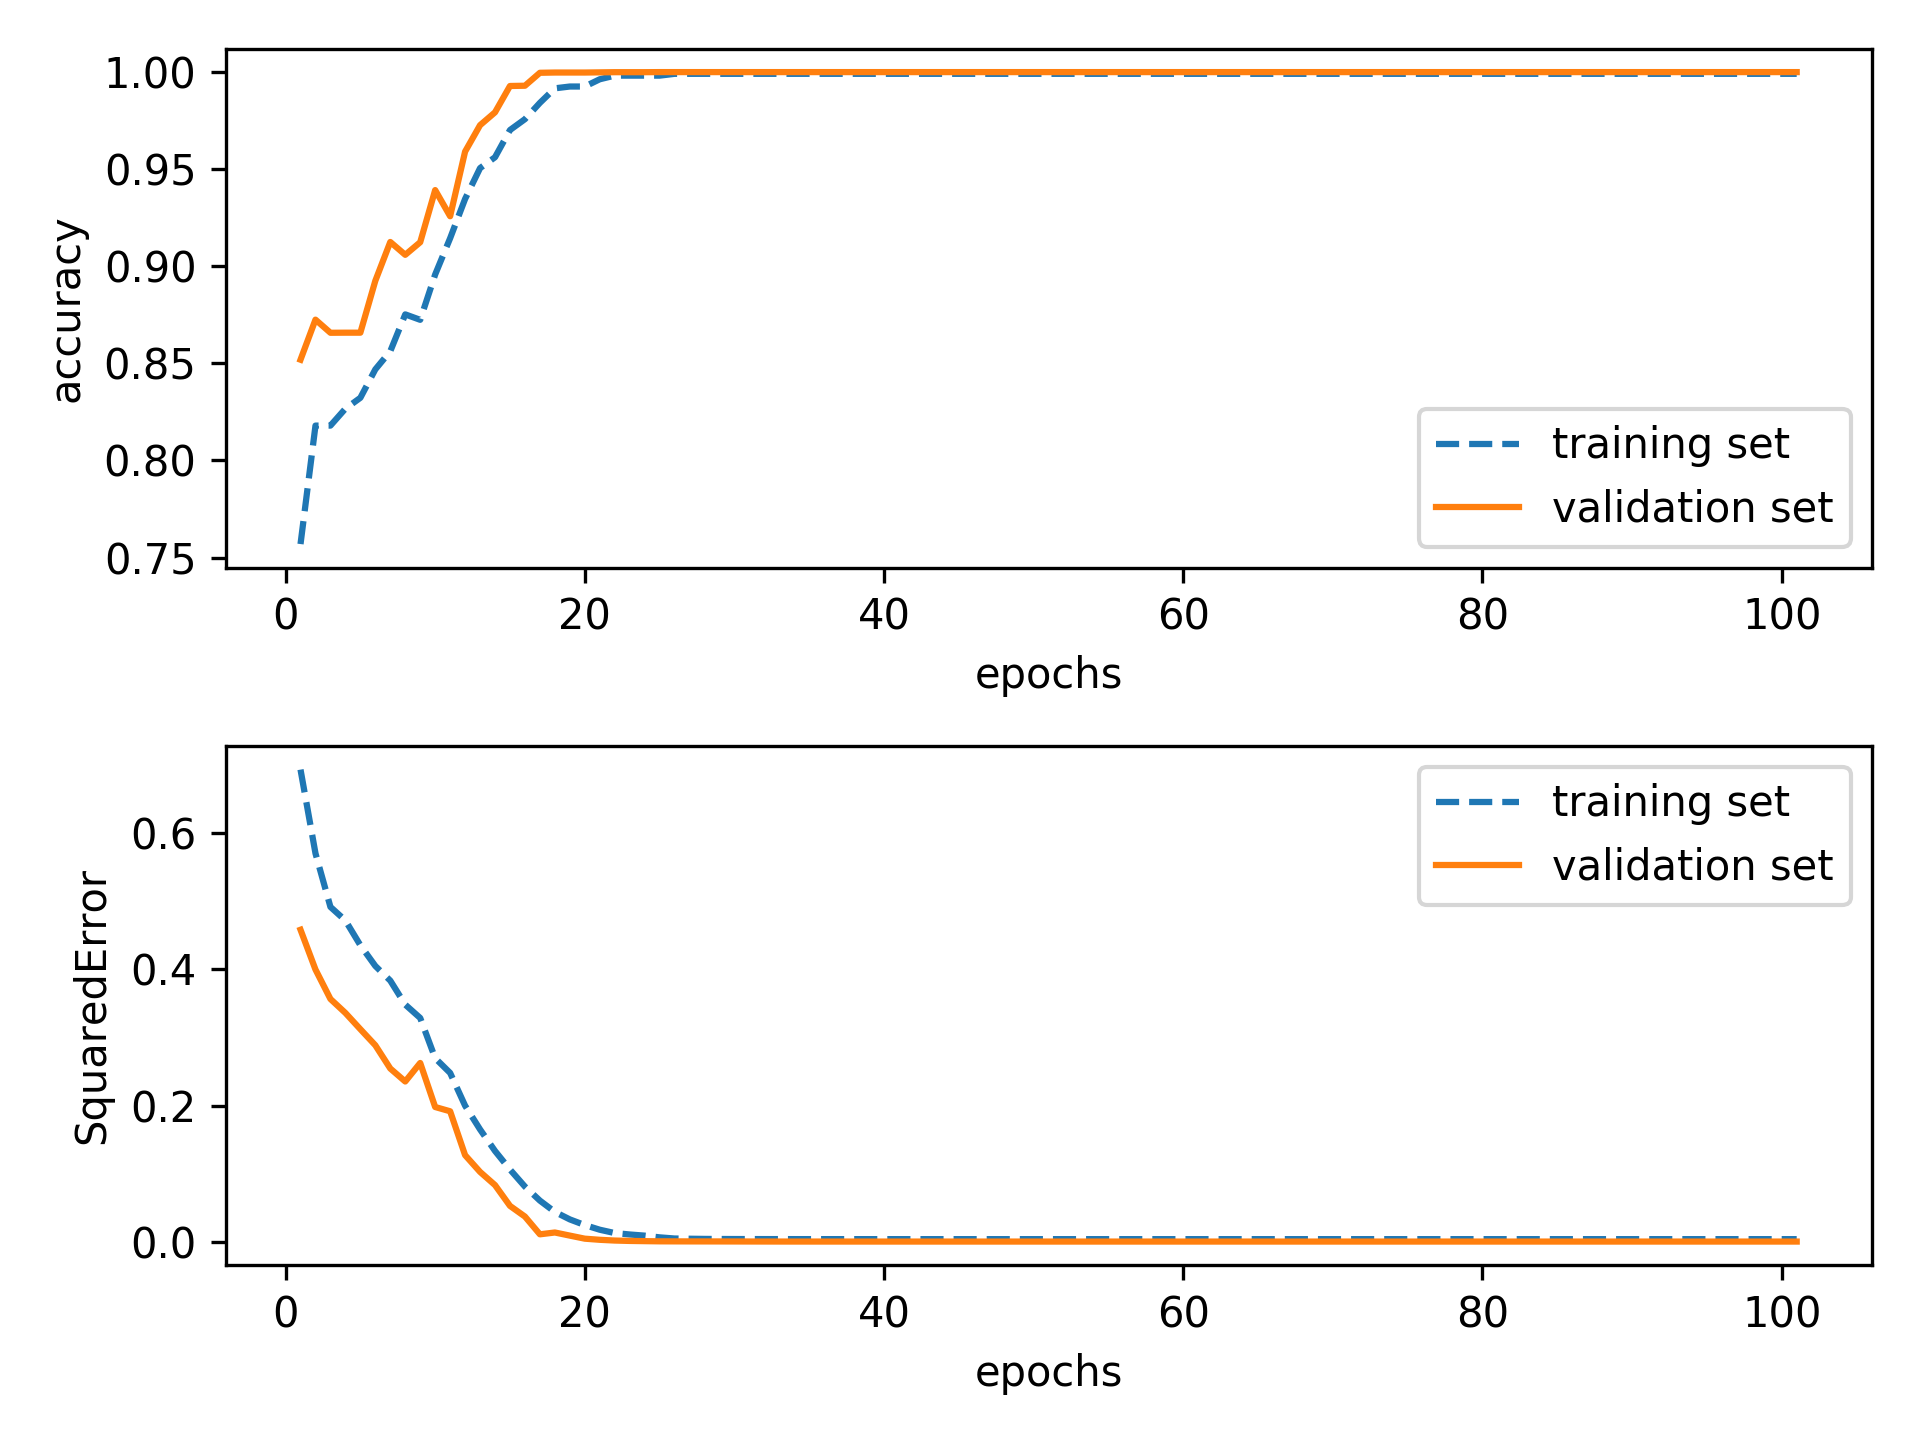
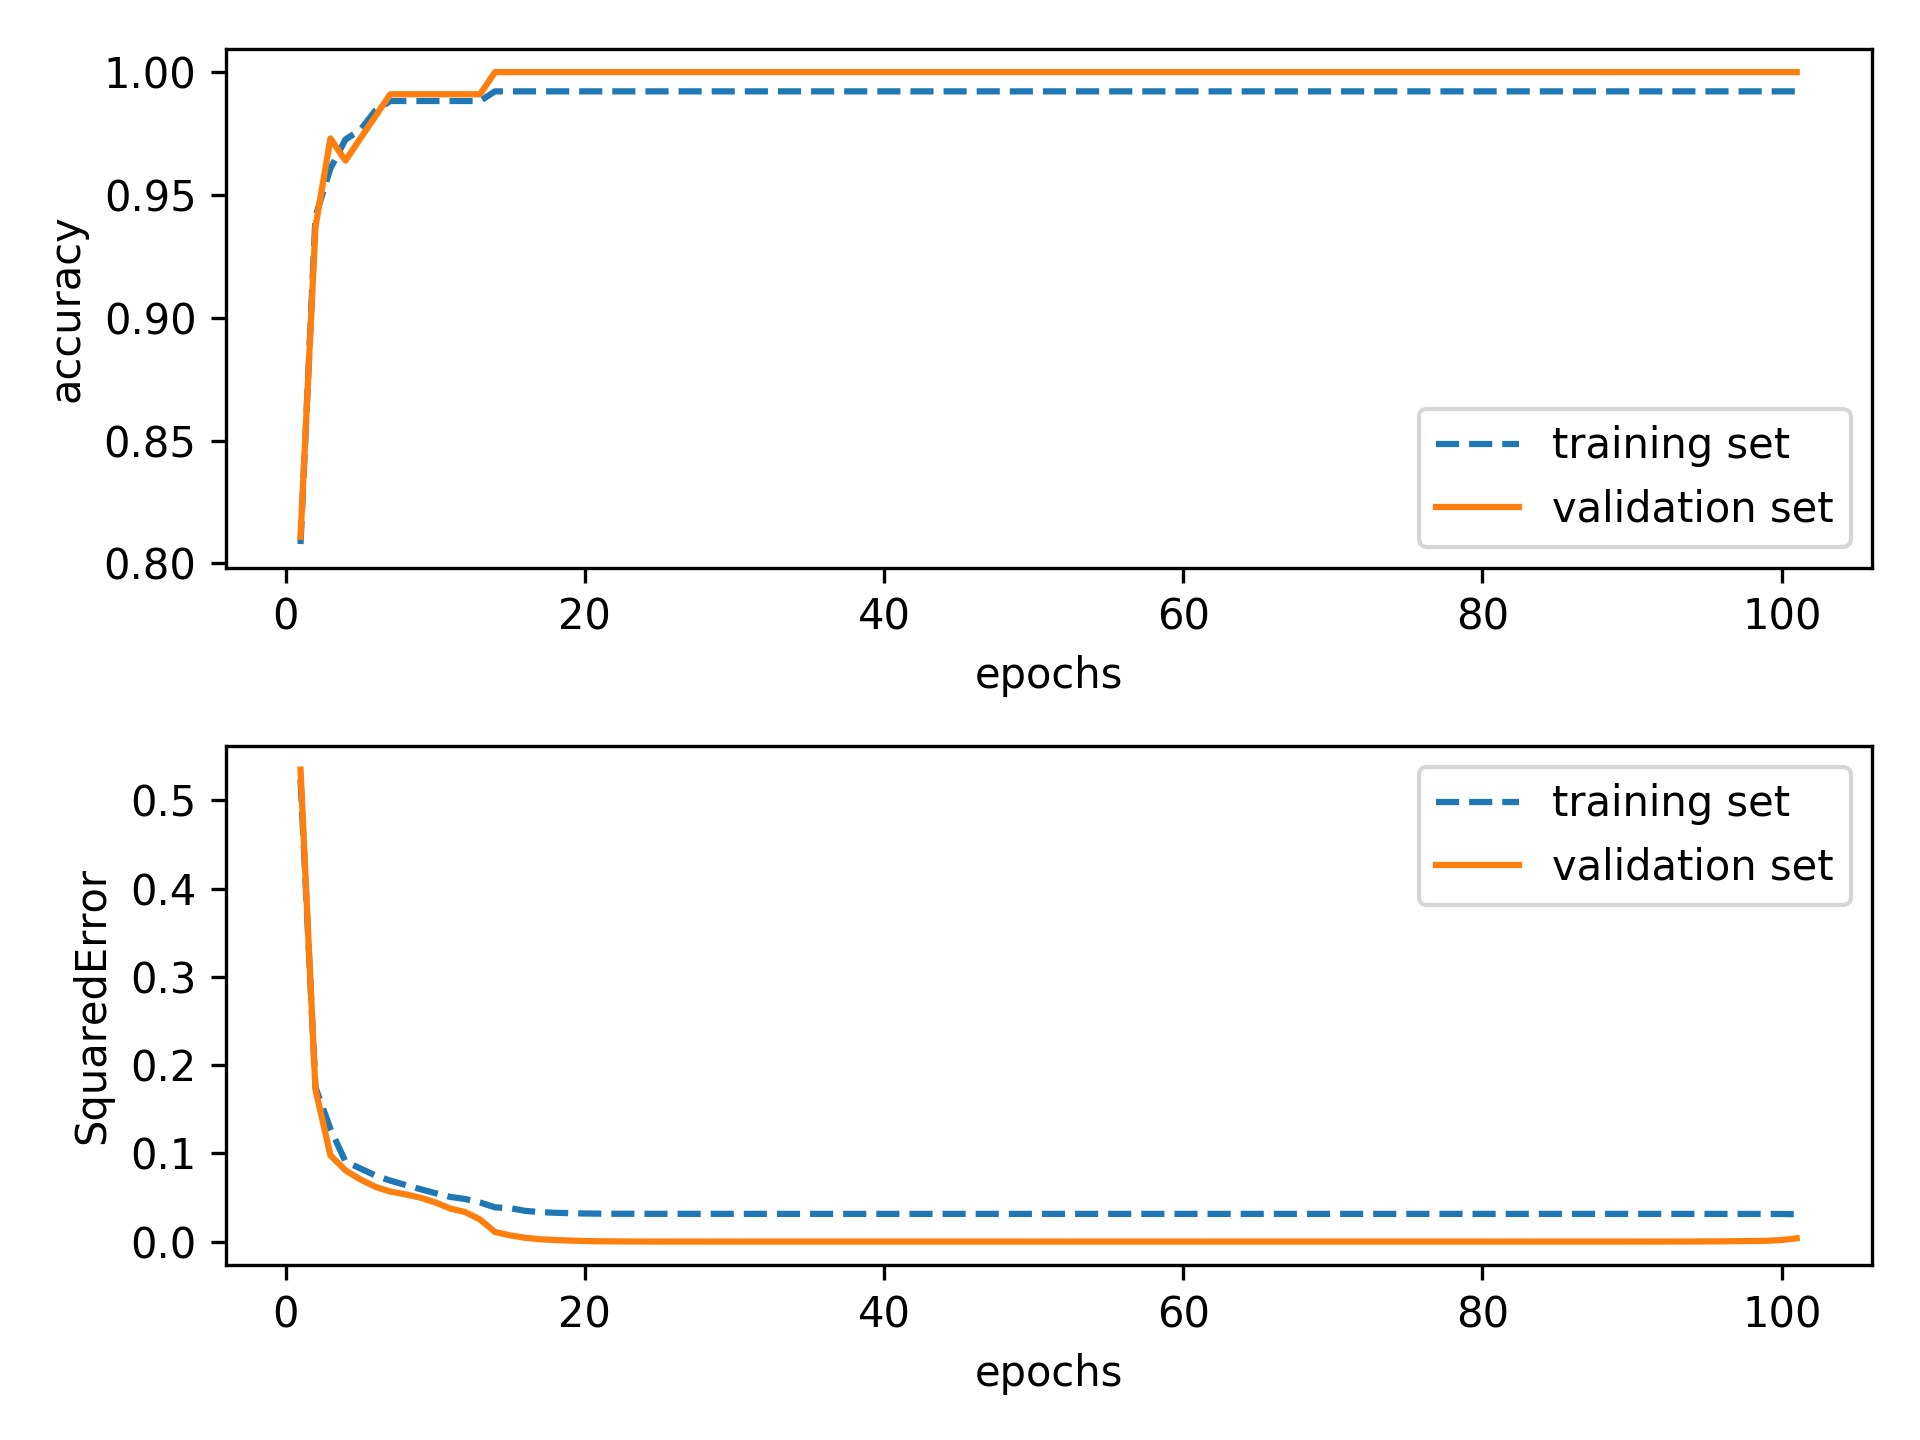
sta cosa qua

diff --git a/src/CM.py b/src/CM.py
@@ -5,7 +5,7 @@ from grid_search import *
 import time
 
 def main():
-    train_file = "../monk_datasets/monks-1.train"
+    train_file = "../monk_datasets/monks-3.train"
 
     # 1. load dataset
     columns = ['label', 'f1', 'f2', 'f3', 'f4', 'f5', 'f6', 'id']
@@ -26,16 +26,16 @@ def main():
     arch = [[17,20,1] , [17,15,1]]
     neuronsType = [[InputNeuron, TanHNeuron, TanHNeuron]]
 
-    c_1 = [0.0001, 0.00005]
-    c_2 = [0.9, 0.85]
-    theta = [0.9, 0.85]
-    reguralization = [0.0001]
-    m = [30]
+    c_1 = [0.0001]
+    c_2 = [0.9]
+    theta = [0.9]
+    reguralization = [0.00001]
+    m = [30,40]
     epochs = 100
     lossObject = SquaredError("tangentH")
-    parameter = GridSearchBFGSParams(c_1,c_2,theta,reguralization,epochs,arch,neuronsType)
+    parameter = GridSearchLBFGSParams(c_1,c_2,theta,reguralization,m,epochs,arch,neuronsType)
     # perform grid search
-    grid_search_BFGS(parameter,lossObject,training_patterns,training_labels,validation_patterns,validation_labels,
+    grid_search_LBFGS(parameter,lossObject,training_patterns,training_labels,validation_patterns,validation_labels,
                    n_trials=3,save_in_dir="../temp/new-")
 
     # try BFGS

diff --git a/src/Neural_network.py b/src/Neural_network.py
@@ -611,15 +611,6 @@ class Network:
         i = 1
         while True:
 
-            if i > 50:
-                l = []
-                for i in range(0,100):
-                    print "plotting line search"
-                    a = self.evaluate_phi_alpha(i*0.01, data, lossObject, p, targets, regularization)
-                    l.append(a)
-                plt.plot(l)
-                plt.show()
-
         # 1. evaluate phi(alpha_i)
             gradient_alpha_i, phi_alpha_i = self.evaluate_phi_alpha(alpha_i, data, lossObject, p, targets, regularization)
 
@@ -689,15 +680,6 @@ class Network:
                 if phi_p_alpha_j * (alpha_high - alpha_low) >= 0:
                     alpha_high = alpha_low
                 alpha_low = alpha_j
-
-        l = []
-        print "plotting zoom"
-
-        for i in range(-100,100):
-            _,a = self.evaluate_phi_alpha(i*0.01, data, lossObject, p, targets, regularization)
-            l.append(a)
-        plt.plot(l)
-        plt.show()
 
         return alpha_j
 

diff --git a/src/ml_cup.py b/src/ml_cup.py
@@ -33,8 +33,8 @@ def main():
     theta=[0.9, 0.7 ,0.5]
     c_1=[0.001]
     c_2=[ 0.9]
-    regularization = [0.0001]
-    m = [20,30,50]
+    regularization = [0.00001]
+    m = [40]
     parameter = GridSearchLBFGSParams(c_1,c_2,theta,regularization,m,epochs,architecture,neurons)
 
     loss_obj = EuclideanError(normalizer=None)
